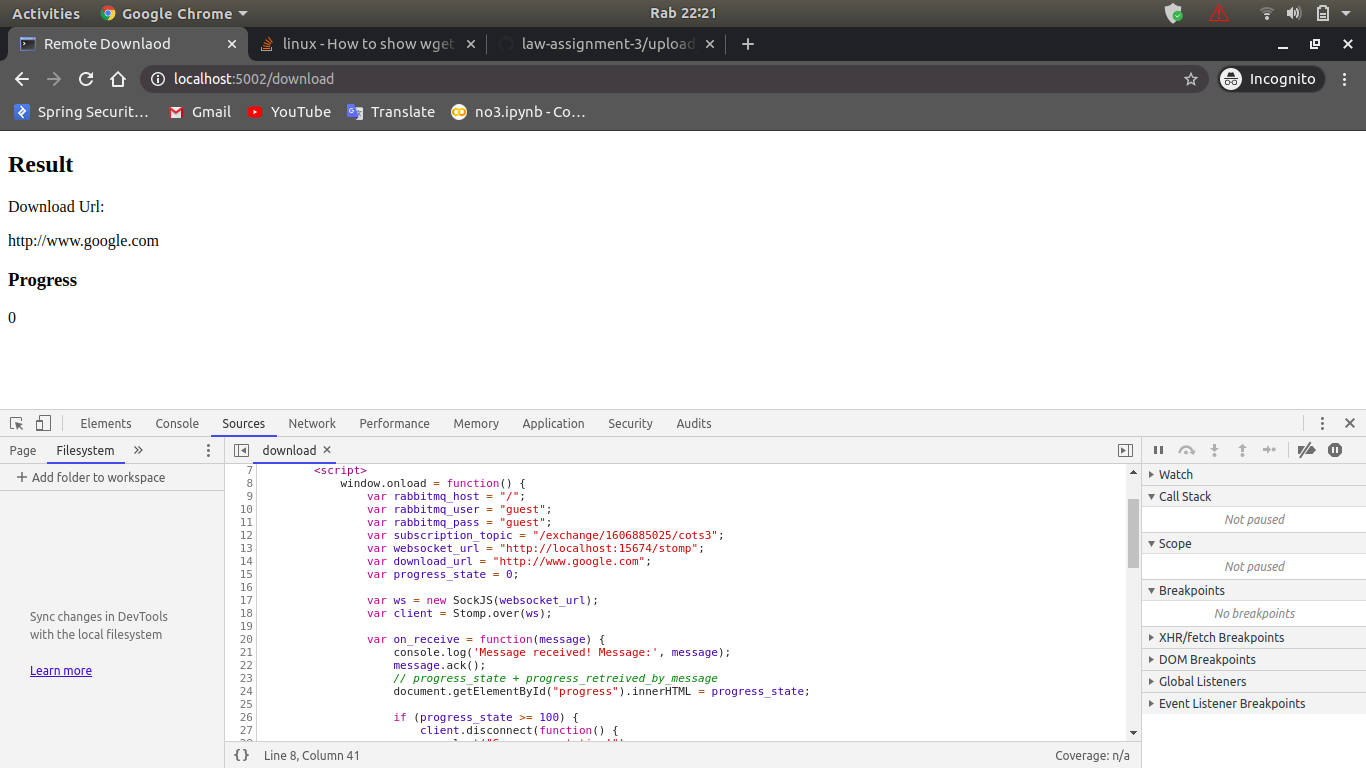
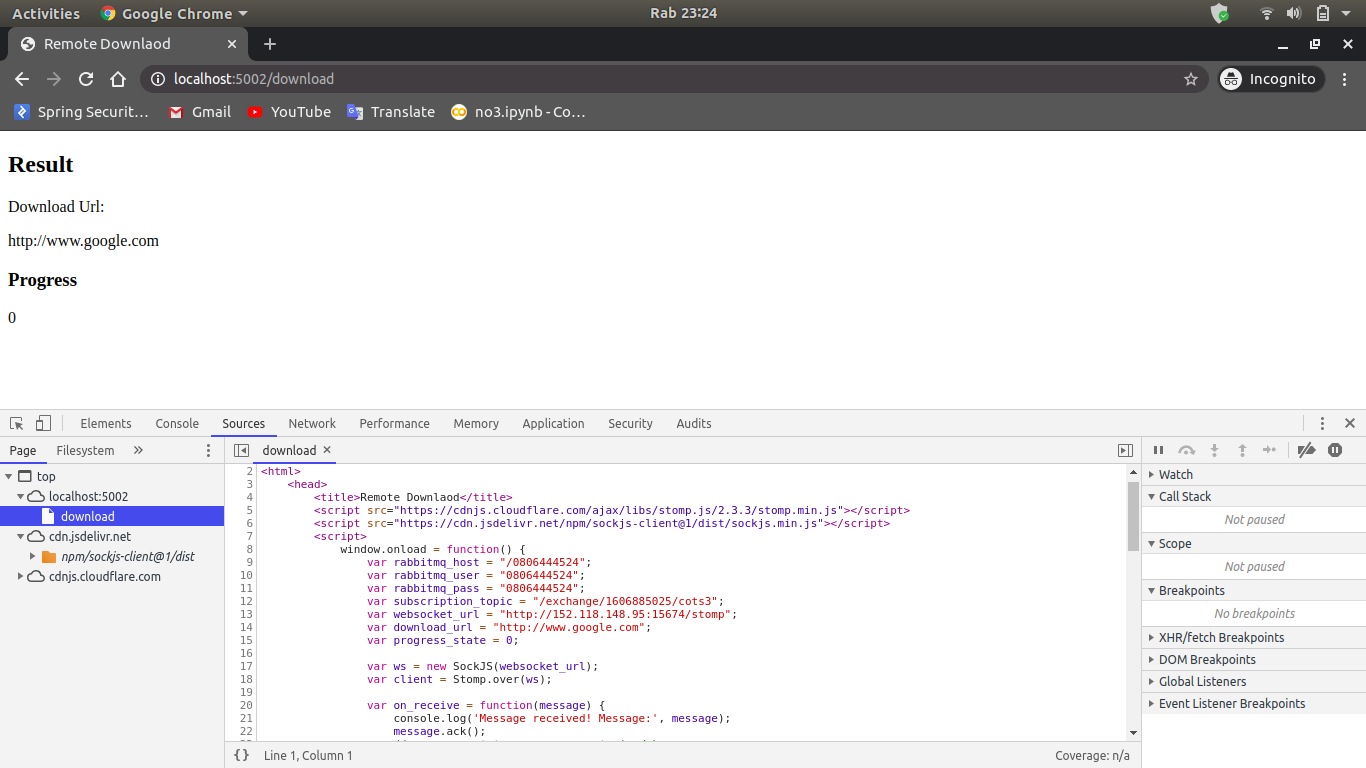
add virtual host into rabbitmq parameters

diff --git a/index.html b/index.html
@@ -1,0 +1,11 @@
+<!doctype html><html itemscope="" itemtype="http://schema.org/WebPage" lang="id"><head><meta content="text/html; charset=UTF-8" http-equiv="Content-Type"><meta content="/images/branding/googleg/1x/googleg_standard_color_128dp.png" itemprop="image"><title>Google</title><script nonce="R6TpUKpYLik0iWi2LDuV0g==">(function(){window.google={kEI:'guSyXuPZMt7C3LUP16-fgAc',kEXPI:'0,202123,3,4,1151616,5663,731,223,3110,1994,207,3204,10,1051,175,364,1119,380,239,337,241,383,246,5,959,395,505,49,127,132,224,328,329,1218,405,508,144,415403,708394,1197768,381,78,329040,1294,12383,4855,32692,15247,867,28684,9188,8384,4858,1362,9290,3029,2815,1924,3118,7915,1808,4020,978,2977,1,4953,5297,2054,920,873,1217,2975,6430,11306,3222,4517,2777,520,399,2277,8,570,2226,889,704,1165,114,2212,530,149,1103,840,517,1137,279,50,3,53,4258,312,1137,2,2669,1839,184,1777,520,1947,1034,1,1194,93,328,1284,16,446,2481,2246,474,1339,748,1039,3227,773,2072,7,6068,8078,2662,642,1407,1042,2459,1226,1462,3935,1274,108,3407,908,2,940,553,2062,2398,1385,117,1393,2074,449,226,995,780,50,229,10,601,1086,251,1098,3,12,334,230,970,865,372,1640,1906,706,149,189,2837,475,2490,27,2223,1993,579,27,1344,47,1093,651,4,499,1029,17,616,2,3,2,1,3,58,239,1347,16,275,753,208,1,270,598,276,395,2,8,12,30,745,608,2,67,10,386,968,4,1312,22,120,174,667,117,461,339,51,713,191,234,22,126,131,206,221,1292,165,4,39,832,468,212,500,639,502,84,5,835,758,45,112,359,228,97,73,77,281,69,876,148,467,163,100,3,216,388,136,13,102,5819458,3309,1802585,6996022,549,333,444,1,2,80,1,900,896,1,8,1,2,2551,1,748,200,736,4,559,1,4265,1,1,1,1,137,1,1193,1401,3,443,9,63,2,5,3,2,1,1,1,1,2,3,3,5,1,3,1,4,1,5,1,1,1,1,35,6,3,2,3,1,1,1,1,1,1,2,2,4,11,55,1,3,12,2,2,12,1,3,1,3,2,1,6,2,3,3,16,21,23962214,2641849,40884',kBL:'7gJn'};google.sn='webhp';google.kHL='id';})();(function(){google.lc=[];google.li=0;google.getEI=function(a){for(var c;a&&(!a.getAttribute||!(c=a.getAttribute("eid")));)a=a.parentNode;return c||google.kEI};google.getLEI=function(a){for(var c=null;a&&(!a.getAttribute||!(c=a.getAttribute("leid")));)a=a.parentNode;return c};google.ml=function(){return null};google.time=function(){return Date.now()};google.log=function(a,c,b,d,g){if(b=google.logUrl(a,c,b,d,g)){a=new Image;var e=google.lc,f=google.li;e[f]=a;a.onerror=a.onload=a.onabort=function(){delete e[f]};google.vel&&google.vel.lu&&google.vel.lu(b);a.src=b;google.li=f+1}};google.logUrl=function(a,c,b,d,g){var e="",f=google.ls||"";b||-1!=c.search("&ei=")||(e="&ei="+google.getEI(d),-1==c.search("&lei=")&&(d=google.getLEI(d))&&(e+="&lei="+d));d="";!b&&google.cshid&&-1==c.search("&cshid=")&&"slh"!=a&&(d="&cshid="+google.cshid);b=b||"/"+(g||"gen_204")+"?atyp=i&ct="+a+"&cad="+c+e+f+"&zx="+google.time()+d;/^http:/i.test(b)&&"https:"==window.location.protocol&&(google.ml(Error("a"),!1,{src:b,glmm:1}),b="");return b};}).call(this);(function(){google.y={};google.x=function(a,b){if(a)var c=a.id;else{do c=Math.random();while(google.y[c])}google.y[c]=[a,b];return!1};google.lm=[];google.plm=function(a){google.lm.push.apply(google.lm,a)};google.lq=[];google.load=function(a,b,c){google.lq.push([[a],b,c])};google.loadAll=function(a,b){google.lq.push([a,b])};}).call(this);google.f={};(function(){
+document.documentElement.addEventListener("submit",function(b){var a;if(a=b.target){var c=a.getAttribute("data-submitfalse");a="1"==c||"q"==c&&!a.elements.q.value?!0:!1}else a=!1;a&&(b.preventDefault(),b.stopPropagation())},!0);document.documentElement.addEventListener("click",function(b){var a;a:{for(a=b.target;a&&a!=document.documentElement;a=a.parentElement)if("A"==a.tagName){a="1"==a.getAttribute("data-nohref");break a}a=!1}a&&b.preventDefault()},!0);}).call(this);
+var a=window.location,b=a.href.indexOf("#");if(0<=b){var c=a.href.substring(b+1);/(^|&)q=/.test(c)&&-1==c.indexOf("#")&&a.replace("/search?"+c.replace(/(^|&)fp=[^&]*/g,"")+"&cad=h")};</script><style>#gbar,#guser{font-size:13px;padding-top:1px !important;}#gbar{height:22px}#guser{padding-bottom:7px !important;text-align:right}.gbh,.gbd{border-top:1px solid #c9d7f1;font-size:1px}.gbh{height:0;position:absolute;top:24px;width:100%}@media all{.gb1{height:22px;margin-right:.5em;vertical-align:top}#gbar{float:left}}a.gb1,a.gb4{text-decoration:underline !important}a.gb1,a.gb4{color:#00c !important}.gbi .gb4{color:#dd8e27 !important}.gbf .gb4{color:#900 !important}
+</style><style>body,td,a,p,.h{font-family:arial,sans-serif}body{margin:0;overflow-y:scroll}#gog{padding:3px 8px 0}td{line-height:.8em}.gac_m td{line-height:17px}form{margin-bottom:20px}.h{color:#36c}.q{color:#00c}.ts td{padding:0}.ts{border-collapse:collapse}em{font-weight:bold;font-style:normal}.lst{height:25px;width:496px}.gsfi,.lst{font:18px arial,sans-serif}.gsfs{font:17px arial,sans-serif}.ds{display:inline-box;display:inline-block;margin:3px 0 4px;margin-left:4px}input{font-family:inherit}body{background:#fff;color:#000}a{color:#11c;text-decoration:none}a:hover,a:active{text-decoration:underline}.fl a{color:#36c}a:visited{color:#551a8b}.sblc{padding-top:5px}.sblc a{display:block;margin:2px 0;margin-left:13px;font-size:11px}.lsbb{background:#eee;border:solid 1px;border-color:#ccc #999 #999 #ccc;height:30px}.lsbb{display:block}.ftl,#fll a{display:inline-block;margin:0 12px}.lsb{background:url(/images/nav_logo229.png) 0 -261px repeat-x;border:none;color:#000;cursor:pointer;height:30px;margin:0;outline:0;font:15px arial,sans-serif;vertical-align:top}.lsb:active{background:#ccc}.lst:focus{outline:none}.tiah{width:458px}</style><script nonce="R6TpUKpYLik0iWi2LDuV0g=="></script></head><body bgcolor="#fff"><script nonce="R6TpUKpYLik0iWi2LDuV0g==">(function(){var src='/images/nav_logo229.png';var iesg=false;document.body.onload = function(){window.n && window.n();if (document.images){new Image().src=src;}
+if (!iesg){document.f&&document.f.q.focus();document.gbqf&&document.gbqf.q.focus();}
+}
+})();</script><div id="mngb"> <div id=gbar><nobr><b class=gb1>Telusuri</b> <a class=gb1 href="http://www.google.co.id/imghp?hl=id&tab=wi">Gambar</a> <a class=gb1 href="http://maps.google.co.id/maps?hl=id&tab=wl">Maps</a> <a class=gb1 href="http://www.youtube.com/?gl=ID&tab=w1">YouTube</a> <a class=gb1 href="http://news.google.co.id/nwshp?hl=id&tab=wn">Berita</a> <a class=gb1 href="https://mail.google.com/mail/?tab=wm">Gmail</a> <a class=gb1 href="https://drive.google.com/?tab=wo">Drive</a> <a class=gb1 href="https://www.google.com/calendar?tab=wc">Kalender</a> <a class=gb1 style="text-decoration:none" href="https://www.google.co.id/intl/id/about/products?tab=wh"><u>Lainnya</u> &raquo;</a></nobr></div><div id=guser width=100%><nobr><span id=gbn class=gbi></span><span id=gbf class=gbf></span><span id=gbe></span><a href="http://www.google.co.id/history/optout?hl=id" class=gb4>Histori Web</a> | <a  href="/preferences?hl=id" class=gb4>Setelan</a> | <a target=_top id=gb_70 href="https://accounts.google.com/ServiceLogin?hl=id&passive=true&continue=http://www.google.com/" class=gb4>Login</a></nobr></div><div class=gbh style=left:0></div><div class=gbh style=right:0></div> </div><center><br clear="all" id="lgpd"><div id="lga"><img alt="Google" height="92" src="/images/branding/googlelogo/1x/googlelogo_white_background_color_272x92dp.png" style="padding:28px 0 14px" width="272" id="hplogo"><br><br></div><form action="/search" name="f"><table cellpadding="0" cellspacing="0"><tr valign="top"><td width="25%">&nbsp;</td><td align="center" nowrap=""><input name="ie" value="ISO-8859-1" type="hidden"><input value="id" name="hl" type="hidden"><input name="source" type="hidden" value="hp"><input name="biw" type="hidden"><input name="bih" type="hidden"><div class="ds" style="height:32px;margin:4px 0"><div style="position:relative;zoom:1"><input class="lst tiah" style="margin:0;padding:5px 8px 0 6px;vertical-align:top;color:#000;padding-right:38px" autocomplete="off" value="" title="Penelusuran Google" maxlength="2048" name="q" size="57"><img src="/textinputassistant/tia.png" style="position:absolute;cursor:pointer;right:5px;top:4px;z-index:300" data-script-url="/textinputassistant/11/id_tia.js" id="tsuid1" alt="" height="23" width="27"><script nonce="R6TpUKpYLik0iWi2LDuV0g==">(function(){var id='tsuid1';document.getElementById(id).onclick = function(){var s = document.createElement('script');s.src = this.getAttribute('data-script-url');(document.getElementById('xjsc')||document.body).appendChild(s);};})();</script></div></div><br style="line-height:0"><span class="ds"><span class="lsbb"><input class="lsb" value="Penelusuran Google" name="btnG" type="submit"></span></span><span class="ds"><span class="lsbb"><input class="lsb" id="tsuid2" value="Saya Lagi Beruntung" name="btnI" type="submit"><script nonce="R6TpUKpYLik0iWi2LDuV0g==">(function(){var id='tsuid2';document.getElementById(id).onclick = function(){if (this.form.q.value){this.checked = 1;if (this.form.iflsig)this.form.iflsig.disabled = false;}
+else top.location='/doodles/';};})();</script><input value="AINFCbYAAAAAXrLykmoKvsX89aqiII6a4SvhQNvPYOxL" name="iflsig" type="hidden"></span></span></td><td class="fl sblc" align="left" nowrap="" width="25%"><a href="/advanced_search?hl=id&amp;authuser=0">Penelusuran lanjutan</a></td></tr></table><input id="gbv" name="gbv" type="hidden" value="1"><script nonce="R6TpUKpYLik0iWi2LDuV0g==">(function(){var a,b="1";if(document&&document.getElementById)if("undefined"!=typeof XMLHttpRequest)b="2";else if("undefined"!=typeof ActiveXObject){var c,d,e=["MSXML2.XMLHTTP.6.0","MSXML2.XMLHTTP.3.0","MSXML2.XMLHTTP","Microsoft.XMLHTTP"];for(c=0;d=e[c++];)try{new ActiveXObject(d),b="2"}catch(h){}}a=b;if("2"==a&&-1==location.search.indexOf("&gbv=2")){var f=google.gbvu,g=document.getElementById("gbv");g&&(g.value=a);f&&window.setTimeout(function(){location.href=f},0)};}).call(this);</script></form><div id="gac_scont"></div><div style="font-size:83%;min-height:3.5em"><br><div id="gws-output-pages-elements-homepage_additional_languages__als"><style>#gws-output-pages-elements-homepage_additional_languages__als{font-size:small;margin-bottom:24px}#SIvCob{display:inline-block;line-height:28px;}#SIvCob a{padding:0 3px;}.H6sW5{display:inline-block;margin:0 2px;white-space:nowrap}.z4hgWe{display:inline-block;margin:0 2px}</style><div id="SIvCob">Google menawarkan:  <a href="http://www.google.com/setprefs?sig=0_kWLgHso9WB1MKdfFD7UR8lK60n4%3D&amp;hl=en&amp;source=homepage&amp;sa=X&amp;ved=0ahUKEwjjorX60p_pAhVeIbcAHdfXB3AQ2ZgBCAU">English</a>    <a href="http://www.google.com/setprefs?sig=0_kWLgHso9WB1MKdfFD7UR8lK60n4%3D&amp;hl=jv&amp;source=homepage&amp;sa=X&amp;ved=0ahUKEwjjorX60p_pAhVeIbcAHdfXB3AQ2ZgBCAY"></a>    <a href="http://www.google.com/setprefs?sig=0_kWLgHso9WB1MKdfFD7UR8lK60n4%3D&amp;hl=ban&amp;source=homepage&amp;sa=X&amp;ved=0ahUKEwjjorX60p_pAhVeIbcAHdfXB3AQ2ZgBCAc">Basa Bali</a>  </div></div></div><span id="footer"><div style="font-size:10pt"><div style="margin:19px auto;text-align:center" id="fll"><a href="/intl/id/ads/">Program Periklanan</a><a href="http://www.google.co.id/intl/id/services/">Solusi Bisnis</a><a href="/intl/id/about.html">Serba-serbi Google</a><a href="http://www.google.com/setprefdomain?prefdom=ID&amp;prev=http://www.google.co.id/&amp;sig=K_2c4QaoKy3fJyRRYv2vLorvRlMRk%3D">Google.co.id</a></div></div><p style="font-size:8pt;color:#767676">&copy; 2020</p></span></center><script nonce="R6TpUKpYLik0iWi2LDuV0g==">(function(){window.google.cdo={height:0,width:0};(function(){var a=window.innerWidth,b=window.innerHeight;if(!a||!b){var c=window.document,d="CSS1Compat"==c.compatMode?c.documentElement:c.body;a=d.clientWidth;b=d.clientHeight}a&&b&&(a!=google.cdo.width||b!=google.cdo.height)&&google.log("","","/client_204?&atyp=i&biw="+a+"&bih="+b+"&ei="+google.kEI);}).call(this);})();(function(){var u='/xjs/_/js/k\x3dxjs.hp.en.6hfPBk02OKg.O/m\x3dsb_he,d/am\x3dAF8IbA4/d\x3d1/rs\x3dACT90oG4ukkmhoWyvBIA2nhBGyt66X7ojg';
+setTimeout(function(){var b=document;var a="SCRIPT";"application/xhtml+xml"===b.contentType&&(a=a.toLowerCase());a=b.createElement(a);a.src=u;google.timers&&google.timers.load&&google.tick&&google.tick("load","xjsls");document.body.appendChild(a)},0);})();(function(){window.google.xjsu='/xjs/_/js/k\x3dxjs.hp.en.6hfPBk02OKg.O/m\x3dsb_he,d/am\x3dAF8IbA4/d\x3d1/rs\x3dACT90oG4ukkmhoWyvBIA2nhBGyt66X7ojg';})();function _DumpException(e){throw e;}
+function _F_installCss(c){}
+(function(){google.jl={em:[],emw:false,lls:'default',pdt:0,snet:true,uwp:true};})();(function(){var pmc='{\x22d\x22:{},\x22sb_he\x22:{\x22agen\x22:true,\x22cgen\x22:true,\x22client\x22:\x22heirloom-hp\x22,\x22dh\x22:true,\x22dhqt\x22:true,\x22ds\x22:\x22\x22,\x22ffql\x22:\x22id\x22,\x22fl\x22:true,\x22host\x22:\x22google.com\x22,\x22isbh\x22:28,\x22jsonp\x22:true,\x22msgs\x22:{\x22cibl\x22:\x22Hapus Penelusuran\x22,\x22dym\x22:\x22Mungkin maksud Anda adalah:\x22,\x22lcky\x22:\x22Saya Lagi Beruntung\x22,\x22lml\x22:\x22Pelajari lebih lanjut\x22,\x22oskt\x22:\x22Fitur input\x22,\x22psrc\x22:\x22Penelusuran ini telah dihapus dari \\u003Ca href\x3d\\\x22/history\\\x22\\u003EHistori Web\\u003C/a\\u003E Anda\x22,\x22psrl\x22:\x22Hapus\x22,\x22sbit\x22:\x22Telusuri gambar\x22,\x22srch\x22:\x22Penelusuran Google\x22},\x22ovr\x22:{},\x22pq\x22:\x22\x22,\x22refpd\x22:true,\x22rfs\x22:[],\x22sbpl\x22:16,\x22sbpr\x22:16,\x22scd\x22:10,\x22stok\x22:\x22eqEitAh7BNDiWKN4jd7A6ppTjcw\x22,\x22uhde\x22:false}}';google.pmc=JSON.parse(pmc);})();</script>        </body></html>

diff --git a/backend_server.py b/backend_server.py
@@ -11,26 +11,30 @@ import time
 app = flask.Flask(__name__)
 app.config["DEBUG"] = True
 
-# RABBITMQ_HOST = '152.118.148.95'
-# RABBITMQ_PORT = 5672
-# RABBITMQ_WEBSOCKET_PORT = 15674
-# RABBITMQ_USER = '0806444524'
-# RABBITMQ_PASSWORD = '0806444524'
-# RABBITMQ_VHOST = '/0806444524'
-
-# development
-RABBITMQ_HOST = 'localhost'
+RABBITMQ_HOST = '152.118.148.95'
 RABBITMQ_PORT = 5672
 RABBITMQ_WEBSOCKET_PORT = 15674
-RABBITMQ_USER = 'guest'
-RABBITMQ_PASSWORD = 'guest'
-RABBITMQ_VHOST = '/'
+RABBITMQ_USER = '0806444524'
+RABBITMQ_PASSWORD = '0806444524'
+RABBITMQ_VHOST = '/0806444524'
+
+# development
+# RABBITMQ_HOST = 'localhost'
+# RABBITMQ_PORT = 5672
+# RABBITMQ_WEBSOCKET_PORT = 15674
+# RABBITMQ_USER = 'guest'
+# RABBITMQ_PASSWORD = 'guest'
+# RABBITMQ_VHOST = '/'
 
 NPM = '1606885025'
 ROUTING_KEY = 'cots3'
 
 credentials = pika.PlainCredentials(RABBITMQ_USER, RABBITMQ_PASSWORD)
-parameters = pika.ConnectionParameters(host=RABBITMQ_HOST, port=RABBITMQ_PORT, credentials=credentials)
+parameters = pika.ConnectionParameters(
+                host=RABBITMQ_HOST, 
+                port=RABBITMQ_PORT, 
+                virtual_host=RABBITMQ_VHOST,
+                credentials=credentials)
 
 # RabbitMQ
 class MessageService:
